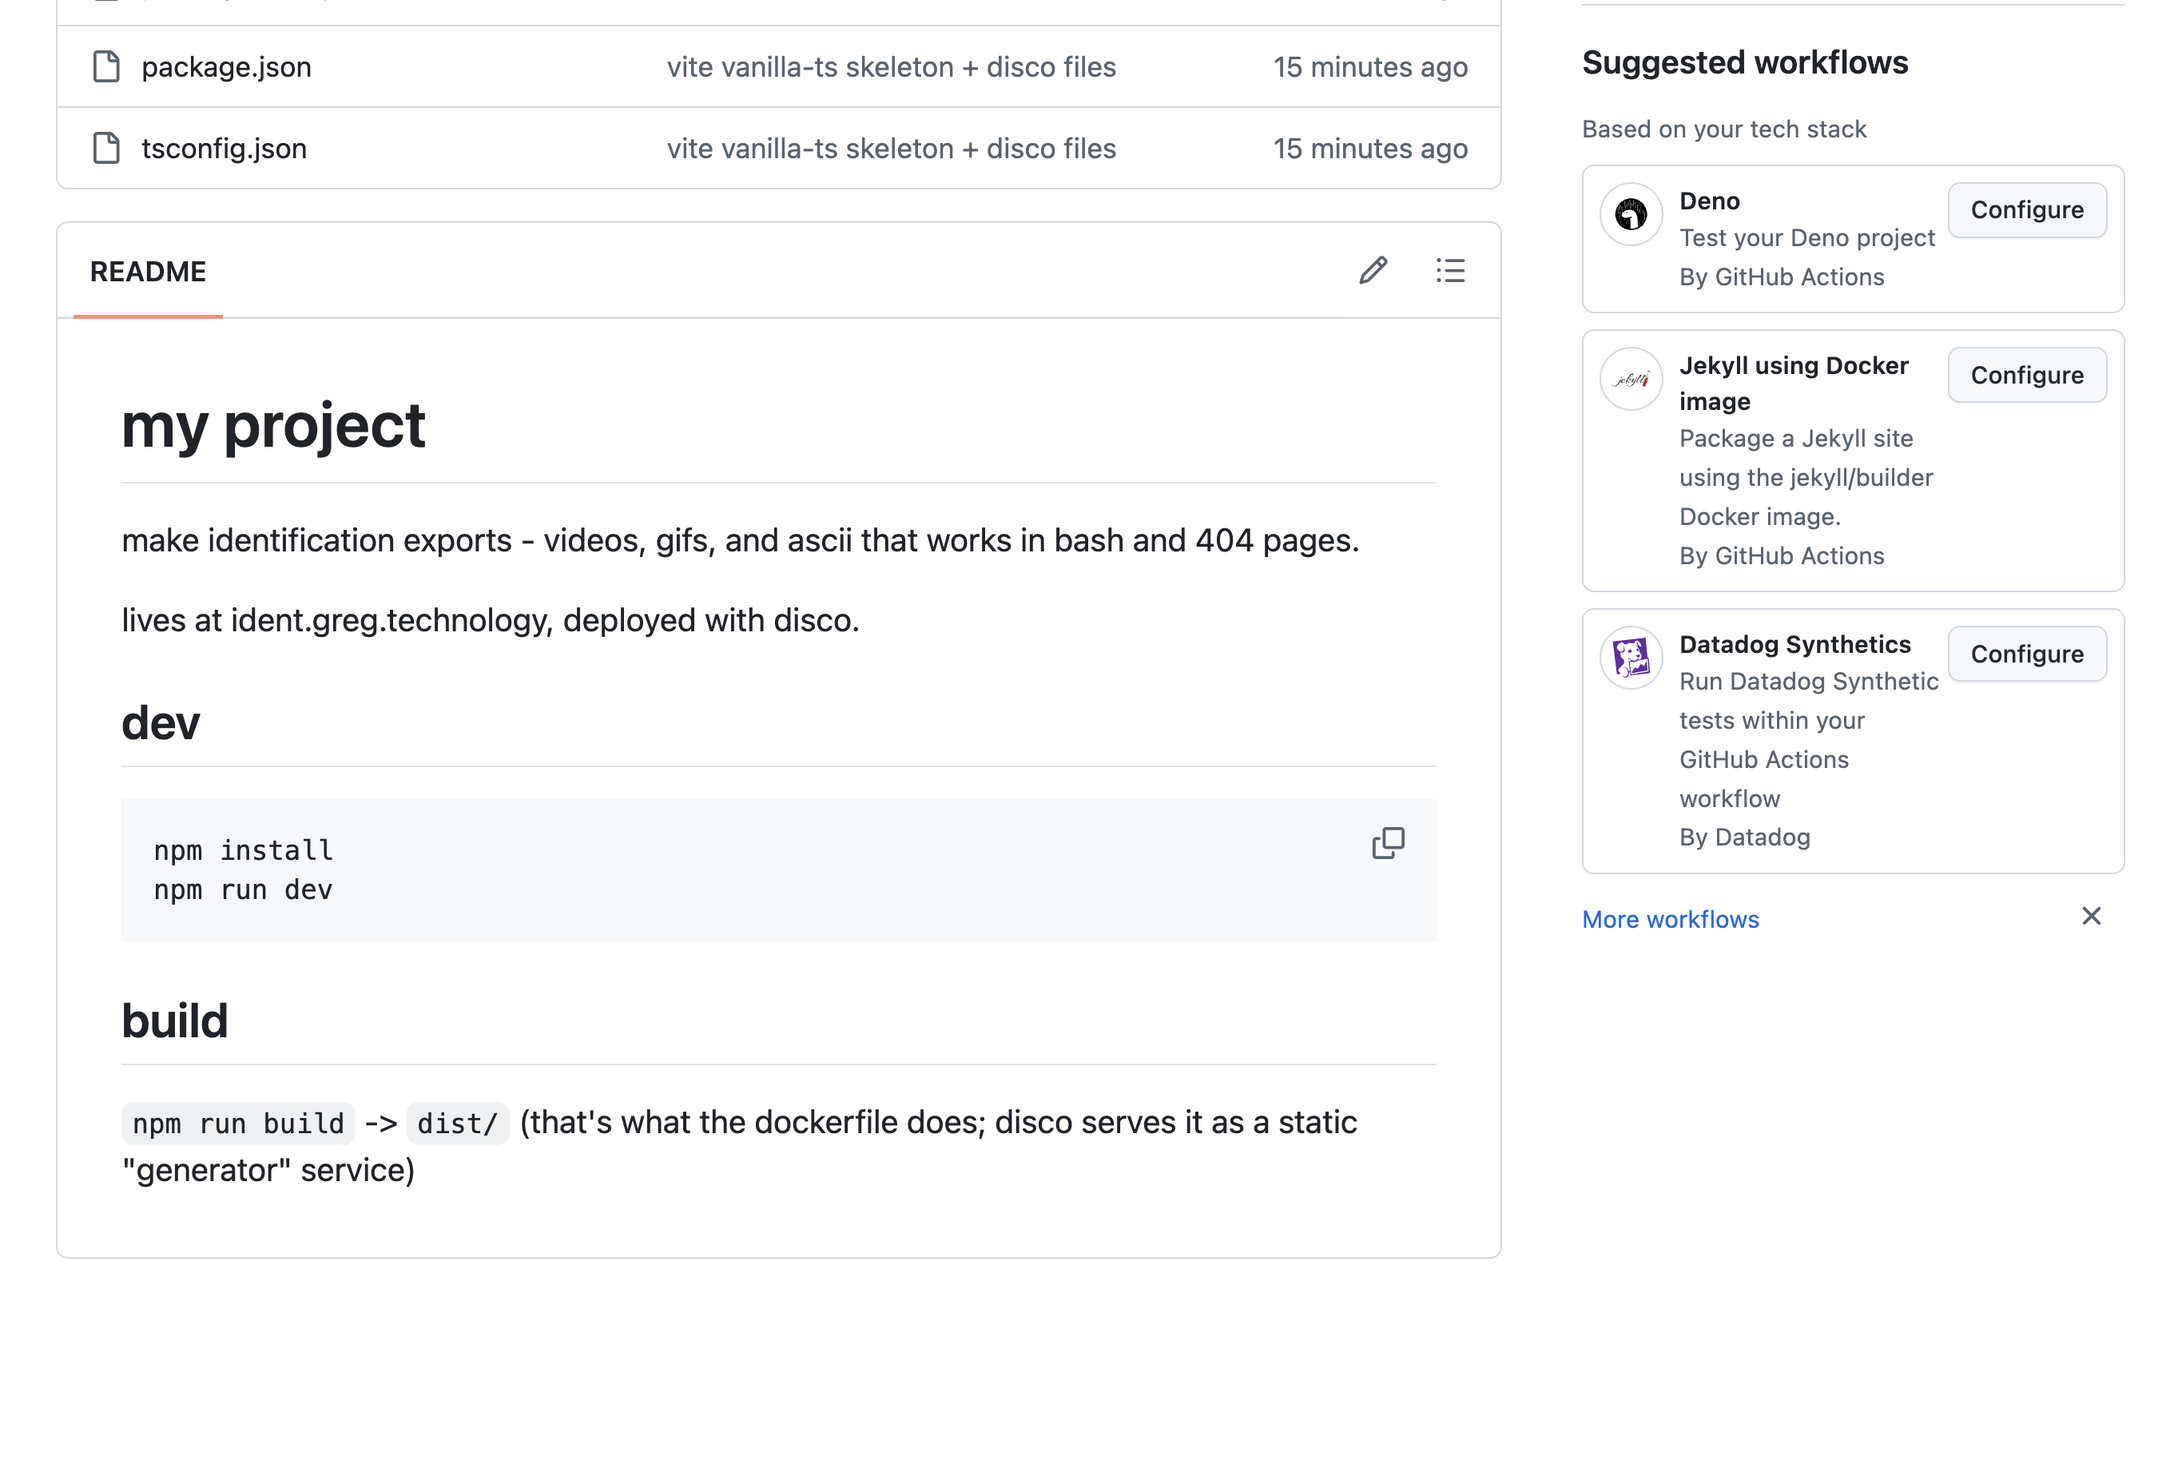
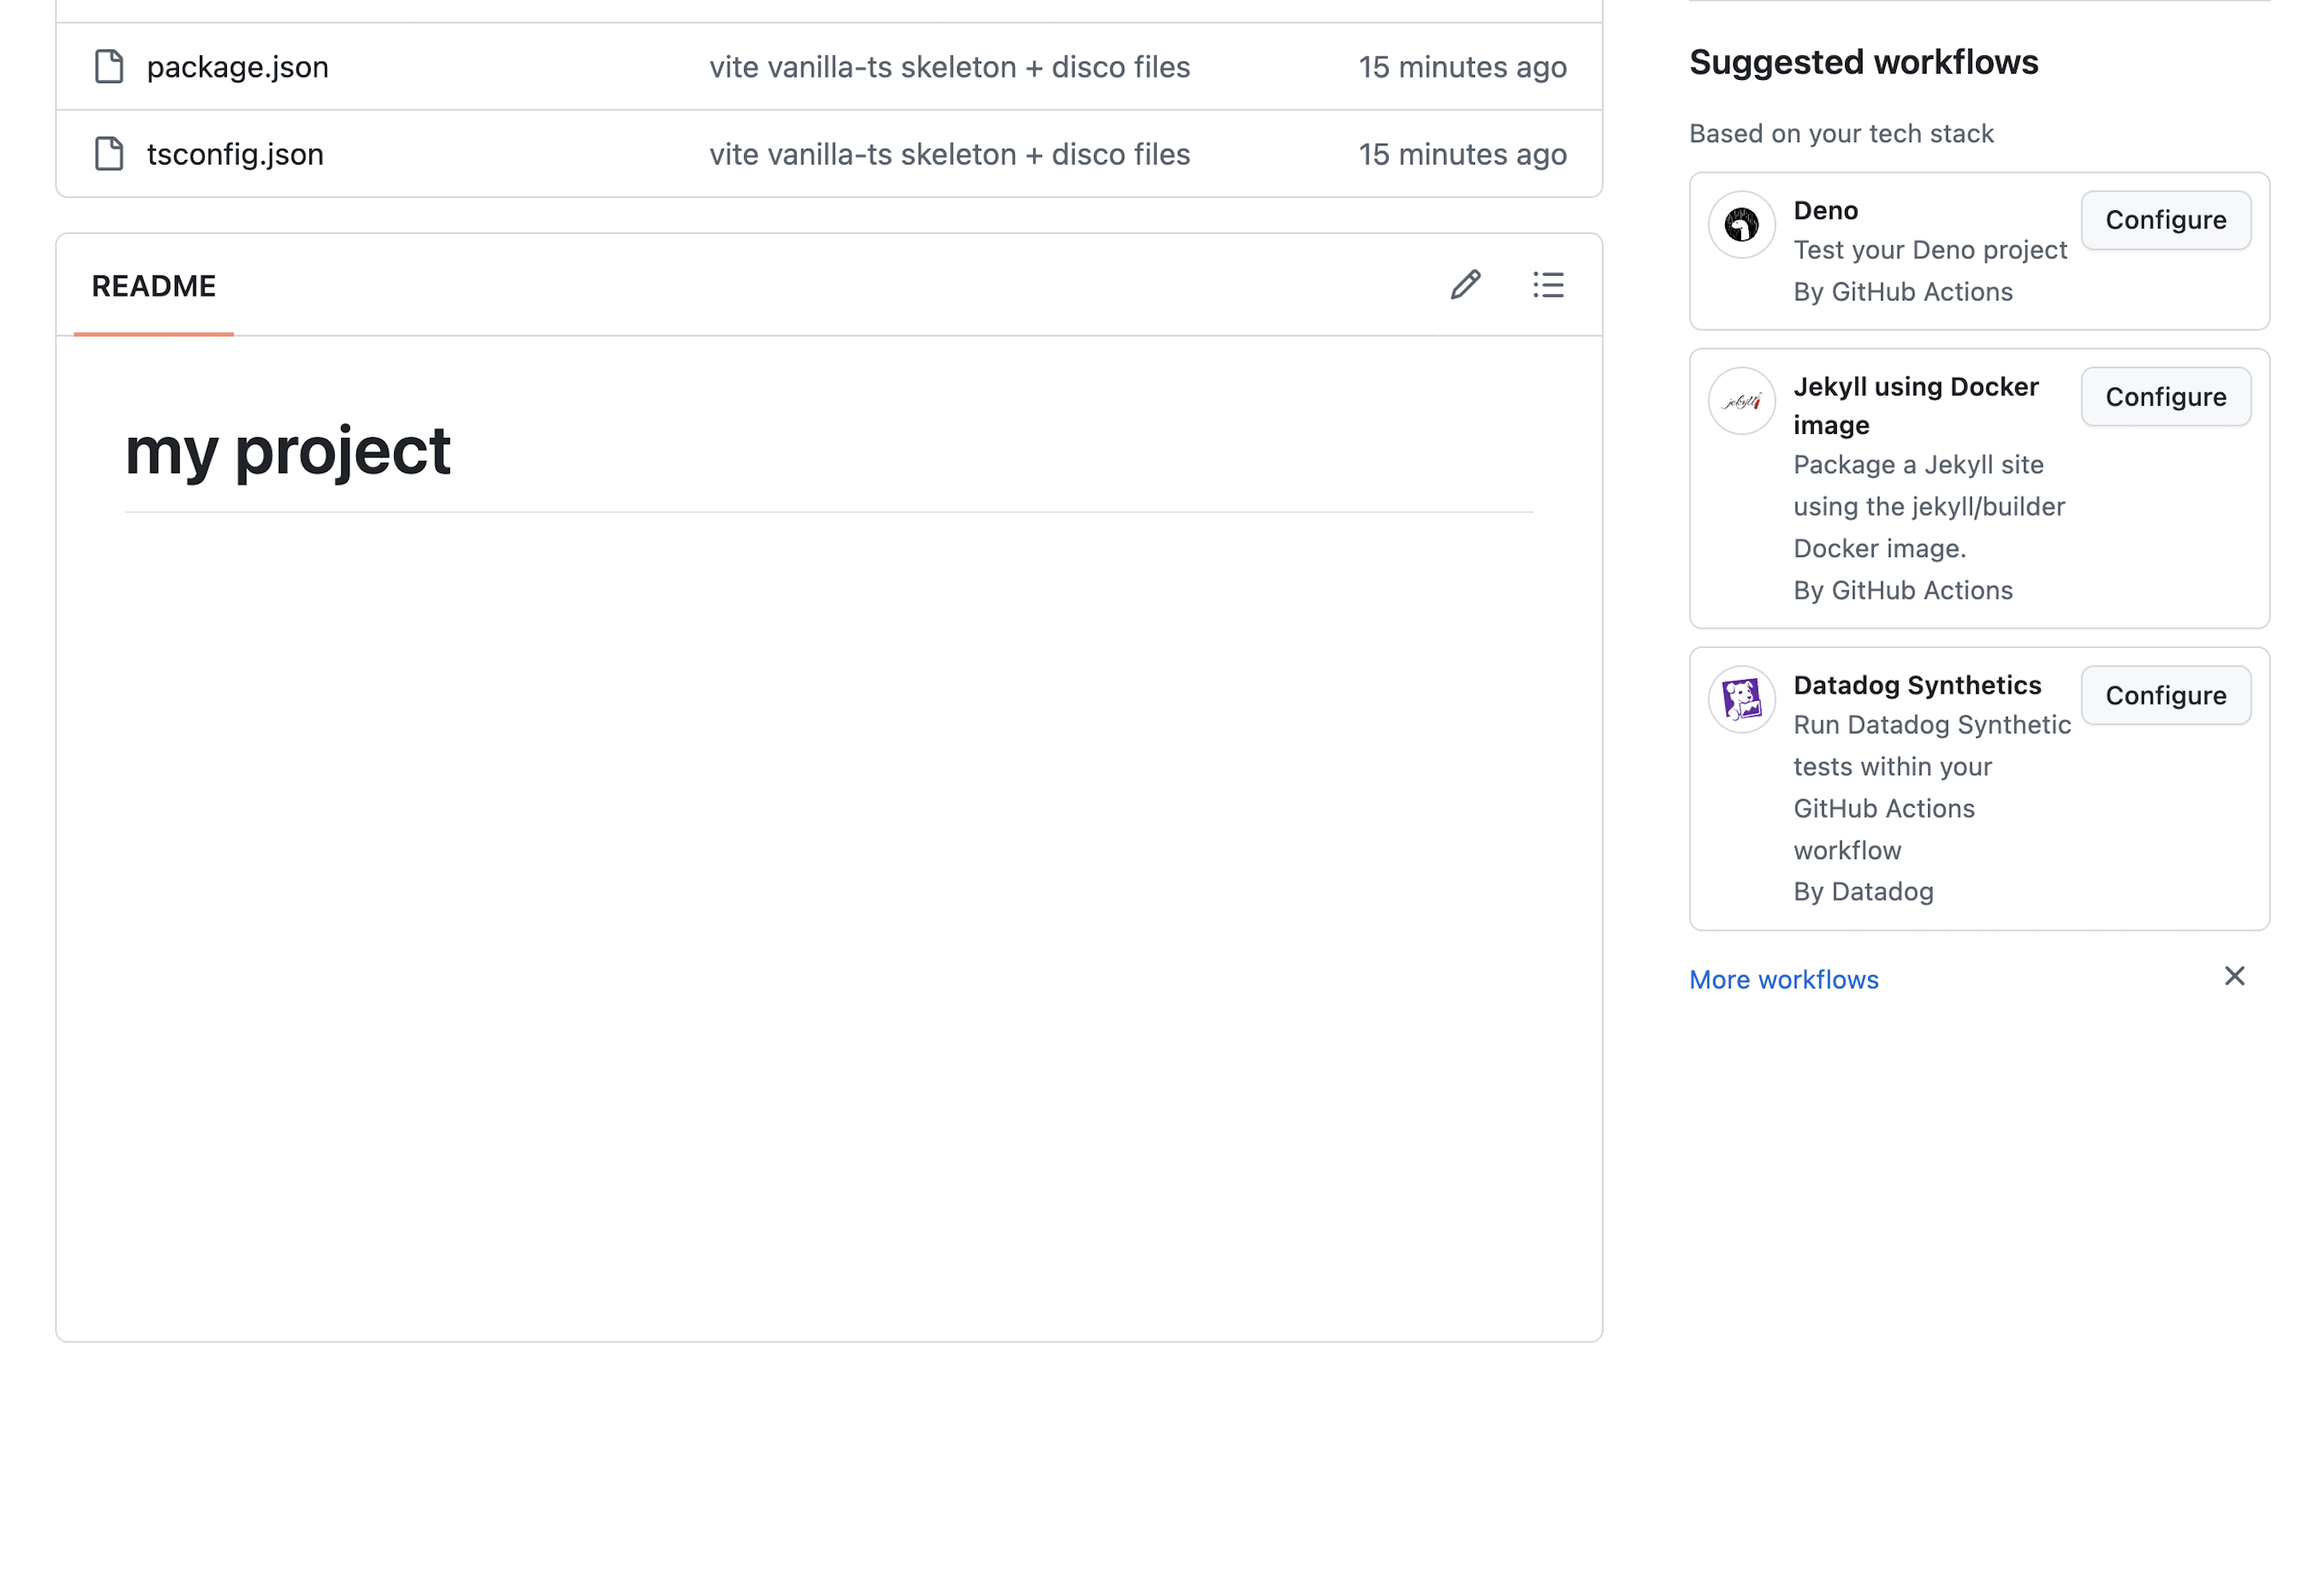
readme: new screenshot + slot, no hover (loops), still png export

diff --git a/src/ui/stage.ts b/src/ui/stage.ts
@@ -1,15 +1,18 @@
 import { state, update, subscribe, type Destination } from "../core/state";
 import { drawFrame, frame, onFrame, triggerEnter, triggerReact } from "../engine";
 import { canvasToAscii } from "../export/ascii";
+import { downloadStill } from "../export/still";
 
-// terminal: ascii only, no hover (there is no hover in a shell) - the enter move loops instead
-const DESTS: { id: Destination; label: string; export: string; asciiLocked?: boolean; loop?: boolean }[] = [
-  { id: "header", label: "site header", export: "get embed" },
-  { id: "404", label: "404", export: "get .html" },
-  { id: "readme", label: "readme", export: "get .mp4" },
-  { id: "terminal", label: "terminal", export: "get .sh", asciiLocked: true, loop: true },
+// exports: label + action (undefined = not built yet)
+interface Export { label: string; run?: () => void }
+interface Dest { id: Destination; label: string; exports: Export[]; asciiLocked?: boolean; loop?: boolean }
+// loop: destinations with no hover (a readme, a shell) replay the enter move on a timer instead
+const DESTS: Dest[] = [
+  { id: "header", label: "site header", exports: [{ label: "get embed" }] },
+  { id: "404", label: "404", exports: [{ label: "get .html" }] },
+  { id: "readme", label: "readme", exports: [{ label: "get still .png", run: () => downloadStill() }, { label: "get .gif" }, { label: "get .mp4" }], loop: true },
+  { id: "terminal", label: "terminal", exports: [{ label: "get .sh" }], asciiLocked: true, loop: true },
 ];
-
 
 export function mountStage(root: HTMLElement) {
   root.innerHTML = `
@@ -18,14 +21,14 @@ export function mountStage(root: HTMLElement) {
       <span class="editing"></span>
       <span class="grow"></span>
       <span class="tgl"><button data-v="px">px</button><button data-v="ascii">ascii</button></span>
-      <button class="export"></button>
+      <span class="exports"></span>
     </header>
     <div class="context"></div>
   `;
   const tabs = root.querySelector<HTMLElement>(".tabs")!;
   const editing = root.querySelector<HTMLElement>(".editing")!;
   const tgl = root.querySelector<HTMLElement>(".tgl")!;
-  const exportBtn = root.querySelector<HTMLButtonElement>(".export")!;
+  const exports = root.querySelector<HTMLElement>(".exports")!;
   const context = root.querySelector<HTMLElement>(".context")!;
 
   // tabs are live thumbnails
@@ -40,7 +43,6 @@ export function mountStage(root: HTMLElement) {
     tabs.appendChild(b); thumbs.set(d.id, { px, asc });
   }
   tgl.querySelectorAll<HTMLButtonElement>("button").forEach((b) => b.onclick = () => update((s) => { s.view[s.dest] = b.dataset.v as "px" | "ascii"; }));
-  exportBtn.onclick = () => alert("export: not built yet");
 
   let ctxEl: { canvas?: HTMLCanvasElement; pre?: HTMLPreElement; cols: number } = { cols: 60 };
 
@@ -48,7 +50,12 @@ export function mountStage(root: HTMLElement) {
     const d = DESTS.find((x) => x.id === state.dest)!;
     const view = d.asciiLocked ? "ascii" : state.view[d.id];
     editing.textContent = `editing: ${d.label}`;
-    exportBtn.textContent = d.export + " ↓";
+    exports.innerHTML = "";
+    for (const ex of d.exports) {
+      const b = document.createElement("button"); b.className = "export"; b.textContent = ex.label + " ↓";
+      b.onclick = ex.run ?? (() => alert("not built yet"));
+      exports.appendChild(b);
+    }
     tgl.hidden = !!d.asciiLocked;
     tgl.querySelectorAll<HTMLButtonElement>("button").forEach((b) => b.classList.toggle("on", b.dataset.v === view));
     tabs.querySelectorAll<HTMLButtonElement>(".tab").forEach((b) => b.classList.toggle("on", b.dataset.id === d.id));

diff --git a/src/style.css b/src/style.css
@@ -36,6 +36,7 @@ h2 { font: 700 10px ui-monospace, monospace; letter-spacing: 1.5px; text-transfo
 
 .stagehead { display: flex; align-items: center; gap: 12px; padding: 10px 16px; border-bottom: 1px solid var(--line); }
 .grow { flex: 1; }
+.exports { display: inline-flex; gap: 6px; }
 .tgl { display: inline-flex; border: 1.5px solid #444; border-radius: 4px; overflow: hidden; }
 .tgl button { font: inherit; font-size: 11px; border: 0; background: #fff; color: #555; padding: 2px 8px; cursor: pointer; }
 .tgl button.on { background: var(--ink); color: #fff; }
@@ -61,10 +62,10 @@ h2 { font: 700 10px ui-monospace, monospace; letter-spacing: 1.5px; text-transfo
 .page404 { background: #000; color: #5dd77a; border-radius: 6px; padding: 40px; min-height: 60vh; display: flex; flex-direction: column; align-items: center; justify-content: center; gap: 24px; }
 .page404 a { color: #5dd77a; }
 
-/* readme: real github screenshot, slot pinned where the logo goes (156,707)-(1942,1263) of 2716x1852 */
+/* readme: real github screenshot, slot pinned in the empty readme band (159,678)-(1919,1631) of 2886x1966 */
 .gh { position: relative; border: 1.5px solid #444; border-radius: 6px; overflow: hidden; background: #fff; }
 .gh img { display: block; width: 100%; height: auto; }
-.gh .slot { position: absolute; left: 5.74%; top: 38.17%; width: 65.76%; height: 30.02%; display: flex; align-items: center; justify-content: center; }
+.gh .slot { position: absolute; left: 5.51%; top: 34.49%; width: 60.98%; height: 48.47%; display: flex; align-items: center; justify-content: center; }
 .gh .slot canvas { width: 100%; height: 100%; object-fit: contain; max-width: none; }
 .gh .slot pre { color: #111; font-size: 8px; line-height: 8px; }
 

diff --git a/src/engine.ts b/src/engine.ts
@@ -1,6 +1,6 @@
 import { state, subscribe } from "./core/state";
 import { envelope } from "./core/envelope";
-import { MOVES, chord, type Deflect } from "./core/presets";
+import { MOVES, REST, chord, type Deflect } from "./core/presets";
 import { renderMark } from "./mark/render";
 import { Warp } from "./gl/warp";
 
@@ -34,6 +34,12 @@ export function drawFrame(target: HTMLCanvasElement) {
   ctx.clearRect(0, 0, target.width, target.height);
   if (state.mark.bg !== "transparent") { ctx.fillStyle = state.mark.bg; ctx.fillRect(0, 0, target.width, target.height); }
   ctx.drawImage(frame, 0, 0, target.width, target.height);
+}
+
+// renders one frame at rest with no persistence into target (the live loop overwrites it next tick)
+export function renderStill(target: HTMLCanvasElement) {
+  warp.render(REST, 0, 0);
+  drawFrame(target);
 }
 
 const frames = new Set<() => void>();

diff --git a/src/export/still.ts b/src/export/still.ts
@@ -1,0 +1,15 @@
+import { state } from "../core/state";
+import { renderStill } from "../engine";
+
+// single frame, mark at rest, bg composited (or transparent). for places that can't animate.
+export function downloadStill(name = "ident.png") {
+  const c = document.createElement("canvas");
+  c.width = state.mark.w; c.height = state.mark.h;
+  renderStill(c);
+  c.toBlob((blob) => {
+    if (!blob) return;
+    const a = document.createElement("a");
+    a.href = URL.createObjectURL(blob); a.download = name; a.click();
+    setTimeout(() => URL.revokeObjectURL(a.href), 1000);
+  }, "image/png");
+}
